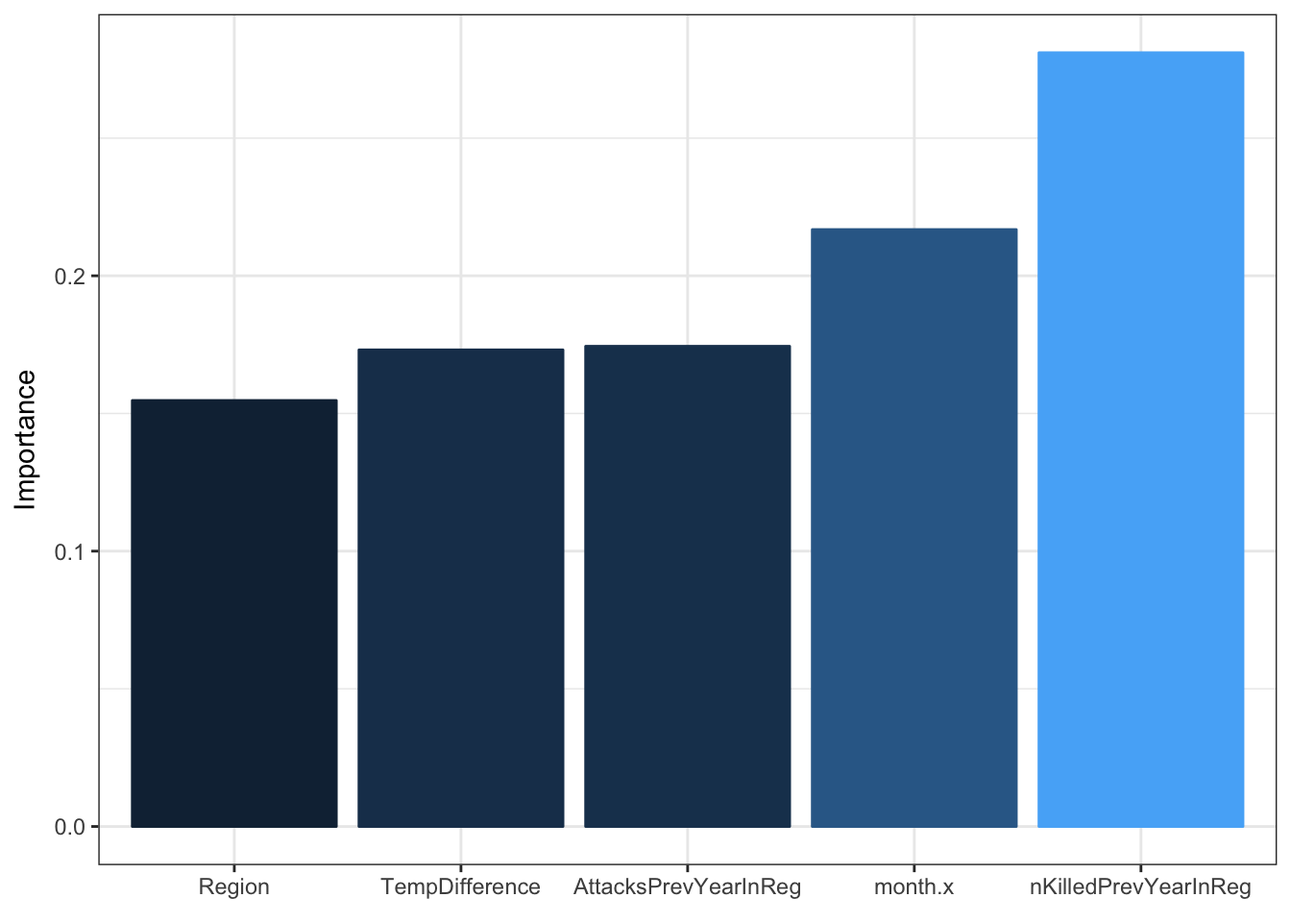
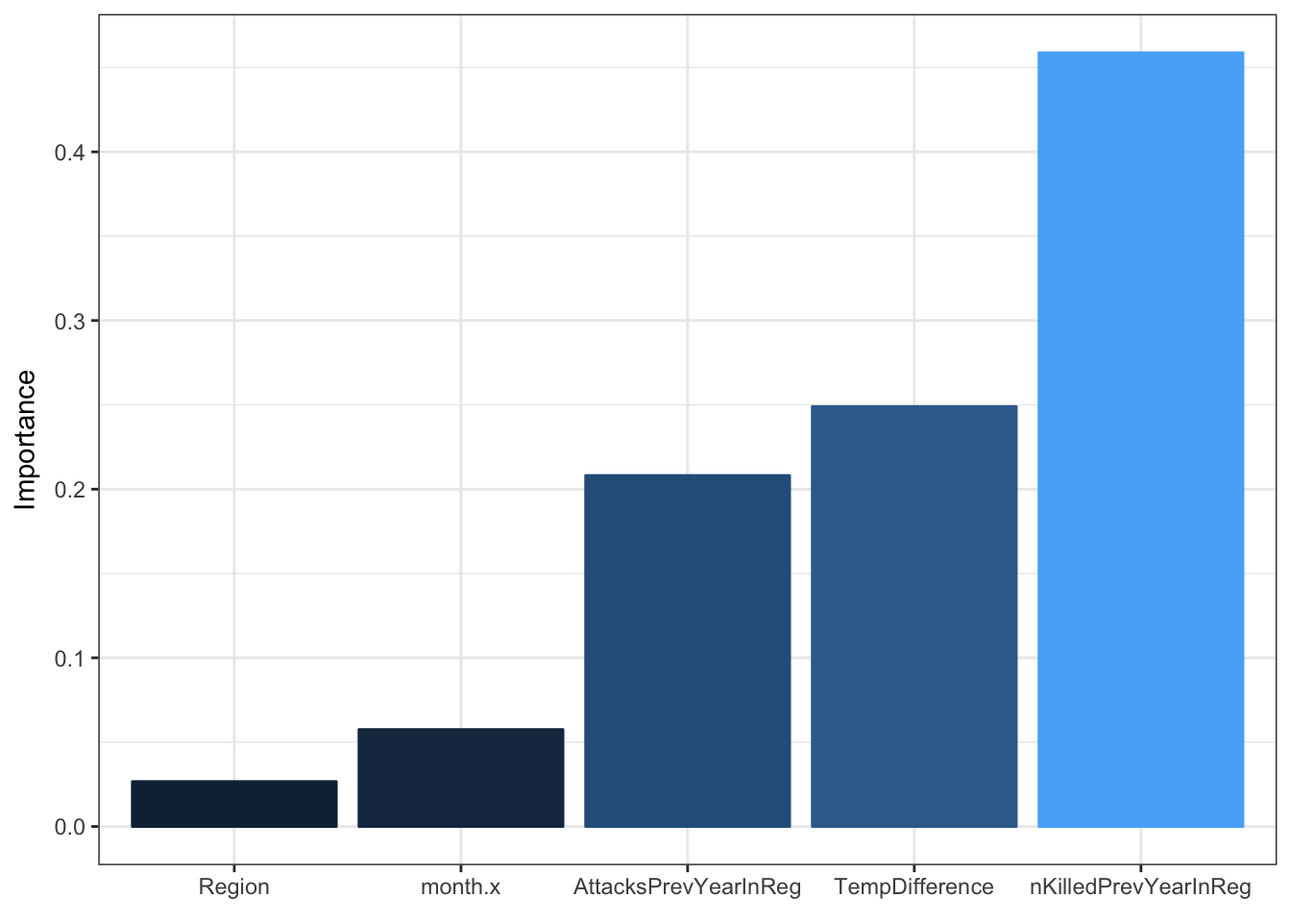
updateing neural net

diff --git a/MasterData.html b/MasterData.html
@@ -254,18 +254,18 @@ usaTerrorismData &lt;- terrorismData %&gt;%
   mutate(year = year(as.POSIXlt(dateLub, 
                                 format=&quot;%d/%m/%Y&quot;))) %&gt;%    ## Create a new year column
   mutate(month_year = paste(month, year))                   ## Create new month, year column (M YYYY)</code></pre>
-<p>Here we will examine terrorist attacks by State since 1970: <div id="6c327b35c4" style="width:672px;height:480px;" class="plotly html-widget"></div>
-<script type="application/json" data-for="6c327b35c4">{"x":{"visdat":{"6c32214c88f":["function () ","plotlyVisDat"]},"cur_data":"6c32214c88f","attrs":{"6c32214c88f":{"locationmode":"USA-states","alpha":1,"sizes":[10,100],"z":{},"text":{},"locations":{},"color":{},"colors":"Reds"}},"layout":{"margin":{"b":40,"l":60,"t":25,"r":10},"mapType":"geo","scene":{"zaxis":{"title":"totalKilled"}},"geo":{"domain":{"x":[0,1],"y":[0,1]},"scope":"usa","projection":{"type":"albers usa"},"showlakes":true,"lakecolor":"rgba(255,255,255,1)"},"hovermode":"closest","showlegend":false,"legend":{"y":0.5,"yanchor":"top"},"title":"Deaths From Terrorist Attacks Since 1970"},"source":"A","config":{"modeBarButtonsToAdd":[{"name":"Collaborate","icon":{"width":1000,"ascent":500,"descent":-50,"path":"M487 375c7-10 9-23 5-36l-79-259c-3-12-11-23-22-31-11-8-22-12-35-12l-263 0c-15 0-29 5-43 15-13 10-23 23-28 37-5 13-5 25-1 37 0 0 0 3 1 7 1 5 1 8 1 11 0 2 0 4-1 6 0 3-1 5-1 6 1 2 2 4 3 6 1 2 2 4 4 6 2 3 4 5 5 7 5 7 9 16 13 26 4 10 7 19 9 26 0 2 0 5 0 9-1 4-1 6 0 8 0 2 2 5 4 8 3 3 5 5 5 7 4 6 8 15 12 26 4 11 7 19 7 26 1 1 0 4 0 9-1 4-1 7 0 8 1 2 3 5 6 8 4 4 6 6 6 7 4 5 8 13 13 24 4 11 7 20 7 28 1 1 0 4 0 7-1 3-1 6-1 7 0 2 1 4 3 6 1 1 3 4 5 6 2 3 3 5 5 6 1 2 3 5 4 9 2 3 3 7 5 10 1 3 2 6 4 10 2 4 4 7 6 9 2 3 4 5 7 7 3 2 7 3 11 3 3 0 8 0 13-1l0-1c7 2 12 2 14 2l218 0c14 0 25-5 32-16 8-10 10-23 6-37l-79-259c-7-22-13-37-20-43-7-7-19-10-37-10l-248 0c-5 0-9-2-11-5-2-3-2-7 0-12 4-13 18-20 41-20l264 0c5 0 10 2 16 5 5 3 8 6 10 11l85 282c2 5 2 10 2 17 7-3 13-7 17-13z m-304 0c-1-3-1-5 0-7 1-1 3-2 6-2l174 0c2 0 4 1 7 2 2 2 4 4 5 7l6 18c0 3 0 5-1 7-1 1-3 2-6 2l-173 0c-3 0-5-1-8-2-2-2-4-4-4-7z m-24-73c-1-3-1-5 0-7 2-2 3-2 6-2l174 0c2 0 5 0 7 2 3 2 4 4 5 7l6 18c1 2 0 5-1 6-1 2-3 3-5 3l-174 0c-3 0-5-1-7-3-3-1-4-4-5-6z"},"click":"function(gd) { \n        // is this being viewed in RStudio?\n        if (location.search == '?viewer_pane=1') {\n          alert('To learn about plotly for collaboration, visit:\\n https://cpsievert.github.io/plotly_book/plot-ly-for-collaboration.html');\n        } else {\n          window.open('https://cpsievert.github.io/plotly_book/plot-ly-for-collaboration.html', '_blank');\n        }\n      }"}],"cloud":false},"data":[{"colorbar":{"title":"Deaths","ticklen":2,"len":0.5,"y":1,"lenmode":"fraction","yanchor":"top"},"colorscale":[["0","rgba(255,245,240,1)"],["0.000354233085370174","rgba(255,245,240,1)"],["0.000708466170740347","rgba(255,245,240,1)"],["0.00141693234148069","rgba(255,245,240,1)"],["0.00177116542685087","rgba(255,245,240,1)"],["0.00212539851222104","rgba(255,245,239,1)"],["0.00247963159759122","rgba(255,245,239,1)"],["0.00283386468296139","rgba(255,245,239,1)"],["0.00318809776833156","rgba(255,244,239,1)"],["0.00389656393907191","rgba(255,244,239,1)"],["0.00425079702444208","rgba(255,244,239,1)"],["0.00637619553666312","rgba(255,244,238,1)"],["0.0152320226709175","rgba(255,242,236,1)"],["0.0226709174636911","rgba(255,241,235,1)"],["0.0602196245129295","rgba(255,235,225,1)"],["1","rgba(103,0,13,1)"]],"showscale":true,"locationmode":"USA-states","z":[5,4,2,79,21,2,0,17,64,7,0,6,4,0,4,0,18,0,8,12,5,2,1,2,0,1,6,0,11,0,2823,9,2,8,170,0,51,0,9,2,12,43,3,0,196,6,0,8,0],"text":["Alabama <br> Number Killed 5","Arizona <br> Number Killed 4","Arkansas <br> Number Killed 2","California <br> Number Killed 79","Colorado <br> Number Killed 21","Connecticut <br> Number Killed 2","Delaware <br> Number Killed 0","District of Columbia <br> Number Killed 17","Florida <br> Number Killed 64","Georgia <br> Number Killed 7","Idaho <br> Number Killed 0","Illinois <br> Number Killed 6","Indiana <br> Number Killed 4","Iowa <br> Number Killed 0","Kansas <br> Number Killed 4","Kentucky <br> Number Killed 0","Louisiana <br> Number Killed 18","Maine <br> Number Killed 0","Maryland <br> Number Killed 8","Massachusetts <br> Number Killed 12","Michigan <br> Number Killed 5","Minnesota <br> Number Killed 2","Mississippi <br> Number Killed 1","Missouri <br> Number Killed 2","Montana <br> Number Killed 0","Nebraska <br> Number Killed 1","Nevada <br> Number Killed 6","New Hampshire <br> Number Killed 0","New Jersey <br> Number Killed 11","New Mexico <br> Number Killed 0","New York <br> Number Killed 2823","North Carolina <br> Number Killed 9","North Dakota <br> Number Killed 2","Ohio <br> Number Killed 8","Oklahoma <br> Number Killed 170","Oregon <br> Number Killed 0","Pennsylvania <br> Number Killed 51","Rhode Island <br> Number Killed 0","South Carolina <br> Number Killed 9","South Dakota <br> Number Killed 2","Tennessee <br> Number Killed 12","Texas <br> Number Killed 43","Utah <br> Number Killed 3","Vermont <br> Number Killed 0","Virginia <br> Number Killed 196","Washington <br> Number Killed 6","West Virginia <br> Number Killed 0","Wisconsin <br> Number Killed 8","Wyoming <br> Number Killed 0"],"locations":["AL","AZ","AR","CA","CO","CT","DE",null,"FL","GA","ID","IL","IN","IA","KS","KY","LA","ME","MD","MA","MI","MN","MS","MO","MT","NE","NV","NH","NJ","NM","NY","NC","ND","OH","OK","OR","PA","RI","SC","SD","TN","TX","UT","VT","VA","WA","WV","WI","WY"],"type":"choropleth","geo":"geo","frame":null}],"highlight":{"on":"plotly_click","persistent":false,"dynamic":false,"selectize":false,"opacityDim":0.2,"selected":{"opacity":1}},"base_url":"https://plot.ly"},"evals":["config.modeBarButtonsToAdd.0.click"],"jsHooks":{"render":[{"code":"function(el, x) { var ctConfig = crosstalk.var('plotlyCrosstalkOpts').set({\"on\":\"plotly_click\",\"persistent\":false,\"dynamic\":false,\"selectize\":false,\"opacityDim\":0.2,\"selected\":{\"opacity\":1}}); }","data":null},{"code":"function(el, x) { var ctConfig = crosstalk.var('plotlyCrosstalkOpts').set({\"on\":\"plotly_click\",\"persistent\":false,\"dynamic\":false,\"selectize\":false,\"opacityDim\":0.2,\"selected\":{\"opacity\":1}}); }","data":null}]}}</script></p>
-<p>We notice that New York skews the data so we will examine the data without New York: <div id="6c3f2dfee7" style="width:672px;height:480px;" class="plotly html-widget"></div>
-<script type="application/json" data-for="6c3f2dfee7">{"x":{"visdat":{"6c331d6d4d1":["function () ","plotlyVisDat"]},"cur_data":"6c331d6d4d1","attrs":{"6c331d6d4d1":{"locationmode":"USA-states","alpha":1,"sizes":[10,100],"z":{},"text":{},"locations":{},"color":{},"colors":"Reds"}},"layout":{"margin":{"b":40,"l":60,"t":25,"r":10},"mapType":"geo","scene":{"zaxis":{"title":"totalKilled"}},"geo":{"domain":{"x":[0,1],"y":[0,1]},"scope":"usa","projection":{"type":"albers usa"},"showlakes":true,"lakecolor":"rgba(255,255,255,1)"},"hovermode":"closest","showlegend":false,"legend":{"y":0.5,"yanchor":"top"},"title":"Deaths From Terrorist Attacks Since 1970 Excluding New York"},"source":"A","config":{"modeBarButtonsToAdd":[{"name":"Collaborate","icon":{"width":1000,"ascent":500,"descent":-50,"path":"M487 375c7-10 9-23 5-36l-79-259c-3-12-11-23-22-31-11-8-22-12-35-12l-263 0c-15 0-29 5-43 15-13 10-23 23-28 37-5 13-5 25-1 37 0 0 0 3 1 7 1 5 1 8 1 11 0 2 0 4-1 6 0 3-1 5-1 6 1 2 2 4 3 6 1 2 2 4 4 6 2 3 4 5 5 7 5 7 9 16 13 26 4 10 7 19 9 26 0 2 0 5 0 9-1 4-1 6 0 8 0 2 2 5 4 8 3 3 5 5 5 7 4 6 8 15 12 26 4 11 7 19 7 26 1 1 0 4 0 9-1 4-1 7 0 8 1 2 3 5 6 8 4 4 6 6 6 7 4 5 8 13 13 24 4 11 7 20 7 28 1 1 0 4 0 7-1 3-1 6-1 7 0 2 1 4 3 6 1 1 3 4 5 6 2 3 3 5 5 6 1 2 3 5 4 9 2 3 3 7 5 10 1 3 2 6 4 10 2 4 4 7 6 9 2 3 4 5 7 7 3 2 7 3 11 3 3 0 8 0 13-1l0-1c7 2 12 2 14 2l218 0c14 0 25-5 32-16 8-10 10-23 6-37l-79-259c-7-22-13-37-20-43-7-7-19-10-37-10l-248 0c-5 0-9-2-11-5-2-3-2-7 0-12 4-13 18-20 41-20l264 0c5 0 10 2 16 5 5 3 8 6 10 11l85 282c2 5 2 10 2 17 7-3 13-7 17-13z m-304 0c-1-3-1-5 0-7 1-1 3-2 6-2l174 0c2 0 4 1 7 2 2 2 4 4 5 7l6 18c0 3 0 5-1 7-1 1-3 2-6 2l-173 0c-3 0-5-1-8-2-2-2-4-4-4-7z m-24-73c-1-3-1-5 0-7 2-2 3-2 6-2l174 0c2 0 5 0 7 2 3 2 4 4 5 7l6 18c1 2 0 5-1 6-1 2-3 3-5 3l-174 0c-3 0-5-1-7-3-3-1-4-4-5-6z"},"click":"function(gd) { \n        // is this being viewed in RStudio?\n        if (location.search == '?viewer_pane=1') {\n          alert('To learn about plotly for collaboration, visit:\\n https://cpsievert.github.io/plotly_book/plot-ly-for-collaboration.html');\n        } else {\n          window.open('https://cpsievert.github.io/plotly_book/plot-ly-for-collaboration.html', '_blank');\n        }\n      }"}],"cloud":false},"data":[{"colorbar":{"title":"Deaths","ticklen":2,"len":0.5,"y":1,"lenmode":"fraction","yanchor":"top"},"colorscale":[["0","rgba(255,245,240,1)"],["0.00510204081632653","rgba(255,244,239,1)"],["0.0102040816326531","rgba(255,243,238,1)"],["0.0180697278911565","rgba(255,242,236,1)"],["0.0204081632653061","rgba(255,242,235,1)"],["0.0255102040816327","rgba(255,241,234,1)"],["0.0306122448979592","rgba(255,240,233,1)"],["0.0325255102040816","rgba(255,240,232,1)"],["0.0408163265306122","rgba(255,238,230,1)"],["0.0423044217687075","rgba(255,238,230,1)"],["0.048469387755102","rgba(255,237,228,1)"],["0.0612244897959184","rgba(255,235,225,1)"],["0.0875850340136054","rgba(254,230,219,1)"],["0.121173469387755","rgba(254,225,211,1)"],["0.265731292517007","rgba(252,182,155,1)"],["0.422406462585033","rgba(252,131,99,1)"],["1","rgba(103,0,13,1)"]],"showscale":true,"locationmode":"USA-states","z":[5,4,2,79,21,2,0,17,64,7,0,6,4,0,4,0,18,0,8,12,5,2,1,2,0,1,6,0,11,0,9,2,8,170,0,51,0,9,2,12,43,3,0,196,6,0,8,0],"text":["Alabama <br> Number Killed 5","Arizona <br> Number Killed 4","Arkansas <br> Number Killed 2","California <br> Number Killed 79","Colorado <br> Number Killed 21","Connecticut <br> Number Killed 2","Delaware <br> Number Killed 0","District of Columbia <br> Number Killed 17","Florida <br> Number Killed 64","Georgia <br> Number Killed 7","Idaho <br> Number Killed 0","Illinois <br> Number Killed 6","Indiana <br> Number Killed 4","Iowa <br> Number Killed 0","Kansas <br> Number Killed 4","Kentucky <br> Number Killed 0","Louisiana <br> Number Killed 18","Maine <br> Number Killed 0","Maryland <br> Number Killed 8","Massachusetts <br> Number Killed 12","Michigan <br> Number Killed 5","Minnesota <br> Number Killed 2","Mississippi <br> Number Killed 1","Missouri <br> Number Killed 2","Montana <br> Number Killed 0","Nebraska <br> Number Killed 1","Nevada <br> Number Killed 6","New Hampshire <br> Number Killed 0","New Jersey <br> Number Killed 11","New Mexico <br> Number Killed 0","North Carolina <br> Number Killed 9","North Dakota <br> Number Killed 2","Ohio <br> Number Killed 8","Oklahoma <br> Number Killed 170","Oregon <br> Number Killed 0","Pennsylvania <br> Number Killed 51","Rhode Island <br> Number Killed 0","South Carolina <br> Number Killed 9","South Dakota <br> Number Killed 2","Tennessee <br> Number Killed 12","Texas <br> Number Killed 43","Utah <br> Number Killed 3","Vermont <br> Number Killed 0","Virginia <br> Number Killed 196","Washington <br> Number Killed 6","West Virginia <br> Number Killed 0","Wisconsin <br> Number Killed 8","Wyoming <br> Number Killed 0"],"locations":["AL","AZ","AR","CA","CO","CT","DE",null,"FL","GA","ID","IL","IN","IA","KS","KY","LA","ME","MD","MA","MI","MN","MS","MO","MT","NE","NV","NH","NJ","NM","NC","ND","OH","OK","OR","PA","RI","SC","SD","TN","TX","UT","VT","VA","WA","WV","WI","WY"],"type":"choropleth","geo":"geo","frame":null}],"highlight":{"on":"plotly_click","persistent":false,"dynamic":false,"selectize":false,"opacityDim":0.2,"selected":{"opacity":1}},"base_url":"https://plot.ly"},"evals":["config.modeBarButtonsToAdd.0.click"],"jsHooks":{"render":[{"code":"function(el, x) { var ctConfig = crosstalk.var('plotlyCrosstalkOpts').set({\"on\":\"plotly_click\",\"persistent\":false,\"dynamic\":false,\"selectize\":false,\"opacityDim\":0.2,\"selected\":{\"opacity\":1}}); }","data":null},{"code":"function(el, x) { var ctConfig = crosstalk.var('plotlyCrosstalkOpts').set({\"on\":\"plotly_click\",\"persistent\":false,\"dynamic\":false,\"selectize\":false,\"opacityDim\":0.2,\"selected\":{\"opacity\":1}}); }","data":null}]}}</script></p>
-<p>And now we will examine attacks as time progresses from 1970 to present day: <html>
+<p>Here we will examine terrorist attacks by State since 1970: <div id="eae1ac74aa6" style="width:672px;height:480px;" class="plotly html-widget"></div>
+<script type="application/json" data-for="eae1ac74aa6">{"x":{"visdat":{"eae6a290a9":["function () ","plotlyVisDat"]},"cur_data":"eae6a290a9","attrs":{"eae6a290a9":{"locationmode":"USA-states","alpha":1,"sizes":[10,100],"z":{},"text":{},"locations":{},"color":{},"colors":"Reds"}},"layout":{"margin":{"b":40,"l":60,"t":25,"r":10},"mapType":"geo","scene":{"zaxis":{"title":"totalKilled"}},"geo":{"domain":{"x":[0,1],"y":[0,1]},"scope":"usa","projection":{"type":"albers usa"},"showlakes":true,"lakecolor":"rgba(255,255,255,1)"},"hovermode":"closest","showlegend":false,"legend":{"y":0.5,"yanchor":"top"},"title":"Deaths From Terrorist Attacks Since 1970"},"source":"A","config":{"modeBarButtonsToAdd":[{"name":"Collaborate","icon":{"width":1000,"ascent":500,"descent":-50,"path":"M487 375c7-10 9-23 5-36l-79-259c-3-12-11-23-22-31-11-8-22-12-35-12l-263 0c-15 0-29 5-43 15-13 10-23 23-28 37-5 13-5 25-1 37 0 0 0 3 1 7 1 5 1 8 1 11 0 2 0 4-1 6 0 3-1 5-1 6 1 2 2 4 3 6 1 2 2 4 4 6 2 3 4 5 5 7 5 7 9 16 13 26 4 10 7 19 9 26 0 2 0 5 0 9-1 4-1 6 0 8 0 2 2 5 4 8 3 3 5 5 5 7 4 6 8 15 12 26 4 11 7 19 7 26 1 1 0 4 0 9-1 4-1 7 0 8 1 2 3 5 6 8 4 4 6 6 6 7 4 5 8 13 13 24 4 11 7 20 7 28 1 1 0 4 0 7-1 3-1 6-1 7 0 2 1 4 3 6 1 1 3 4 5 6 2 3 3 5 5 6 1 2 3 5 4 9 2 3 3 7 5 10 1 3 2 6 4 10 2 4 4 7 6 9 2 3 4 5 7 7 3 2 7 3 11 3 3 0 8 0 13-1l0-1c7 2 12 2 14 2l218 0c14 0 25-5 32-16 8-10 10-23 6-37l-79-259c-7-22-13-37-20-43-7-7-19-10-37-10l-248 0c-5 0-9-2-11-5-2-3-2-7 0-12 4-13 18-20 41-20l264 0c5 0 10 2 16 5 5 3 8 6 10 11l85 282c2 5 2 10 2 17 7-3 13-7 17-13z m-304 0c-1-3-1-5 0-7 1-1 3-2 6-2l174 0c2 0 4 1 7 2 2 2 4 4 5 7l6 18c0 3 0 5-1 7-1 1-3 2-6 2l-173 0c-3 0-5-1-8-2-2-2-4-4-4-7z m-24-73c-1-3-1-5 0-7 2-2 3-2 6-2l174 0c2 0 5 0 7 2 3 2 4 4 5 7l6 18c1 2 0 5-1 6-1 2-3 3-5 3l-174 0c-3 0-5-1-7-3-3-1-4-4-5-6z"},"click":"function(gd) { \n        // is this being viewed in RStudio?\n        if (location.search == '?viewer_pane=1') {\n          alert('To learn about plotly for collaboration, visit:\\n https://cpsievert.github.io/plotly_book/plot-ly-for-collaboration.html');\n        } else {\n          window.open('https://cpsievert.github.io/plotly_book/plot-ly-for-collaboration.html', '_blank');\n        }\n      }"}],"cloud":false},"data":[{"colorbar":{"title":"Deaths","ticklen":2,"len":0.5,"y":1,"lenmode":"fraction","yanchor":"top"},"colorscale":[["0","rgba(255,245,240,1)"],["0.000354233085370174","rgba(255,245,240,1)"],["0.000708466170740347","rgba(255,245,240,1)"],["0.00141693234148069","rgba(255,245,240,1)"],["0.00177116542685087","rgba(255,245,240,1)"],["0.00212539851222104","rgba(255,245,239,1)"],["0.00247963159759122","rgba(255,245,239,1)"],["0.00283386468296139","rgba(255,245,239,1)"],["0.00318809776833156","rgba(255,244,239,1)"],["0.00389656393907191","rgba(255,244,239,1)"],["0.00425079702444208","rgba(255,244,239,1)"],["0.00637619553666312","rgba(255,244,238,1)"],["0.0152320226709175","rgba(255,242,236,1)"],["0.0226709174636911","rgba(255,241,235,1)"],["0.0602196245129295","rgba(255,235,225,1)"],["1","rgba(103,0,13,1)"]],"showscale":true,"locationmode":"USA-states","z":[5,4,2,79,21,2,0,17,64,7,0,6,4,0,4,0,18,0,8,12,5,2,1,2,0,1,6,0,11,0,2823,9,2,8,170,0,51,0,9,2,12,43,3,0,196,6,0,8,0],"text":["Alabama <br> Number Killed 5","Arizona <br> Number Killed 4","Arkansas <br> Number Killed 2","California <br> Number Killed 79","Colorado <br> Number Killed 21","Connecticut <br> Number Killed 2","Delaware <br> Number Killed 0","District of Columbia <br> Number Killed 17","Florida <br> Number Killed 64","Georgia <br> Number Killed 7","Idaho <br> Number Killed 0","Illinois <br> Number Killed 6","Indiana <br> Number Killed 4","Iowa <br> Number Killed 0","Kansas <br> Number Killed 4","Kentucky <br> Number Killed 0","Louisiana <br> Number Killed 18","Maine <br> Number Killed 0","Maryland <br> Number Killed 8","Massachusetts <br> Number Killed 12","Michigan <br> Number Killed 5","Minnesota <br> Number Killed 2","Mississippi <br> Number Killed 1","Missouri <br> Number Killed 2","Montana <br> Number Killed 0","Nebraska <br> Number Killed 1","Nevada <br> Number Killed 6","New Hampshire <br> Number Killed 0","New Jersey <br> Number Killed 11","New Mexico <br> Number Killed 0","New York <br> Number Killed 2823","North Carolina <br> Number Killed 9","North Dakota <br> Number Killed 2","Ohio <br> Number Killed 8","Oklahoma <br> Number Killed 170","Oregon <br> Number Killed 0","Pennsylvania <br> Number Killed 51","Rhode Island <br> Number Killed 0","South Carolina <br> Number Killed 9","South Dakota <br> Number Killed 2","Tennessee <br> Number Killed 12","Texas <br> Number Killed 43","Utah <br> Number Killed 3","Vermont <br> Number Killed 0","Virginia <br> Number Killed 196","Washington <br> Number Killed 6","West Virginia <br> Number Killed 0","Wisconsin <br> Number Killed 8","Wyoming <br> Number Killed 0"],"locations":["AL","AZ","AR","CA","CO","CT","DE",null,"FL","GA","ID","IL","IN","IA","KS","KY","LA","ME","MD","MA","MI","MN","MS","MO","MT","NE","NV","NH","NJ","NM","NY","NC","ND","OH","OK","OR","PA","RI","SC","SD","TN","TX","UT","VT","VA","WA","WV","WI","WY"],"type":"choropleth","geo":"geo","frame":null}],"highlight":{"on":"plotly_click","persistent":false,"dynamic":false,"selectize":false,"opacityDim":0.2,"selected":{"opacity":1}},"base_url":"https://plot.ly"},"evals":["config.modeBarButtonsToAdd.0.click"],"jsHooks":{"render":[{"code":"function(el, x) { var ctConfig = crosstalk.var('plotlyCrosstalkOpts').set({\"on\":\"plotly_click\",\"persistent\":false,\"dynamic\":false,\"selectize\":false,\"opacityDim\":0.2,\"selected\":{\"opacity\":1}}); }","data":null},{"code":"function(el, x) { var ctConfig = crosstalk.var('plotlyCrosstalkOpts').set({\"on\":\"plotly_click\",\"persistent\":false,\"dynamic\":false,\"selectize\":false,\"opacityDim\":0.2,\"selected\":{\"opacity\":1}}); }","data":null}]}}</script></p>
+<p>We notice that New York skews the data so we will examine the data without New York: <div id="eaef04b521" style="width:672px;height:480px;" class="plotly html-widget"></div>
+<script type="application/json" data-for="eaef04b521">{"x":{"visdat":{"eae7f9ad8a2":["function () ","plotlyVisDat"]},"cur_data":"eae7f9ad8a2","attrs":{"eae7f9ad8a2":{"locationmode":"USA-states","alpha":1,"sizes":[10,100],"z":{},"text":{},"locations":{},"color":{},"colors":"Reds"}},"layout":{"margin":{"b":40,"l":60,"t":25,"r":10},"mapType":"geo","scene":{"zaxis":{"title":"totalKilled"}},"geo":{"domain":{"x":[0,1],"y":[0,1]},"scope":"usa","projection":{"type":"albers usa"},"showlakes":true,"lakecolor":"rgba(255,255,255,1)"},"hovermode":"closest","showlegend":false,"legend":{"y":0.5,"yanchor":"top"},"title":"Deaths From Terrorist Attacks Since 1970 Excluding New York"},"source":"A","config":{"modeBarButtonsToAdd":[{"name":"Collaborate","icon":{"width":1000,"ascent":500,"descent":-50,"path":"M487 375c7-10 9-23 5-36l-79-259c-3-12-11-23-22-31-11-8-22-12-35-12l-263 0c-15 0-29 5-43 15-13 10-23 23-28 37-5 13-5 25-1 37 0 0 0 3 1 7 1 5 1 8 1 11 0 2 0 4-1 6 0 3-1 5-1 6 1 2 2 4 3 6 1 2 2 4 4 6 2 3 4 5 5 7 5 7 9 16 13 26 4 10 7 19 9 26 0 2 0 5 0 9-1 4-1 6 0 8 0 2 2 5 4 8 3 3 5 5 5 7 4 6 8 15 12 26 4 11 7 19 7 26 1 1 0 4 0 9-1 4-1 7 0 8 1 2 3 5 6 8 4 4 6 6 6 7 4 5 8 13 13 24 4 11 7 20 7 28 1 1 0 4 0 7-1 3-1 6-1 7 0 2 1 4 3 6 1 1 3 4 5 6 2 3 3 5 5 6 1 2 3 5 4 9 2 3 3 7 5 10 1 3 2 6 4 10 2 4 4 7 6 9 2 3 4 5 7 7 3 2 7 3 11 3 3 0 8 0 13-1l0-1c7 2 12 2 14 2l218 0c14 0 25-5 32-16 8-10 10-23 6-37l-79-259c-7-22-13-37-20-43-7-7-19-10-37-10l-248 0c-5 0-9-2-11-5-2-3-2-7 0-12 4-13 18-20 41-20l264 0c5 0 10 2 16 5 5 3 8 6 10 11l85 282c2 5 2 10 2 17 7-3 13-7 17-13z m-304 0c-1-3-1-5 0-7 1-1 3-2 6-2l174 0c2 0 4 1 7 2 2 2 4 4 5 7l6 18c0 3 0 5-1 7-1 1-3 2-6 2l-173 0c-3 0-5-1-8-2-2-2-4-4-4-7z m-24-73c-1-3-1-5 0-7 2-2 3-2 6-2l174 0c2 0 5 0 7 2 3 2 4 4 5 7l6 18c1 2 0 5-1 6-1 2-3 3-5 3l-174 0c-3 0-5-1-7-3-3-1-4-4-5-6z"},"click":"function(gd) { \n        // is this being viewed in RStudio?\n        if (location.search == '?viewer_pane=1') {\n          alert('To learn about plotly for collaboration, visit:\\n https://cpsievert.github.io/plotly_book/plot-ly-for-collaboration.html');\n        } else {\n          window.open('https://cpsievert.github.io/plotly_book/plot-ly-for-collaboration.html', '_blank');\n        }\n      }"}],"cloud":false},"data":[{"colorbar":{"title":"Deaths","ticklen":2,"len":0.5,"y":1,"lenmode":"fraction","yanchor":"top"},"colorscale":[["0","rgba(255,245,240,1)"],["0.00510204081632653","rgba(255,244,239,1)"],["0.0102040816326531","rgba(255,243,238,1)"],["0.0180697278911565","rgba(255,242,236,1)"],["0.0204081632653061","rgba(255,242,235,1)"],["0.0255102040816327","rgba(255,241,234,1)"],["0.0306122448979592","rgba(255,240,233,1)"],["0.0325255102040816","rgba(255,240,232,1)"],["0.0408163265306122","rgba(255,238,230,1)"],["0.0423044217687075","rgba(255,238,230,1)"],["0.048469387755102","rgba(255,237,228,1)"],["0.0612244897959184","rgba(255,235,225,1)"],["0.0875850340136054","rgba(254,230,219,1)"],["0.121173469387755","rgba(254,225,211,1)"],["0.265731292517007","rgba(252,182,155,1)"],["0.422406462585033","rgba(252,131,99,1)"],["1","rgba(103,0,13,1)"]],"showscale":true,"locationmode":"USA-states","z":[5,4,2,79,21,2,0,17,64,7,0,6,4,0,4,0,18,0,8,12,5,2,1,2,0,1,6,0,11,0,9,2,8,170,0,51,0,9,2,12,43,3,0,196,6,0,8,0],"text":["Alabama <br> Number Killed 5","Arizona <br> Number Killed 4","Arkansas <br> Number Killed 2","California <br> Number Killed 79","Colorado <br> Number Killed 21","Connecticut <br> Number Killed 2","Delaware <br> Number Killed 0","District of Columbia <br> Number Killed 17","Florida <br> Number Killed 64","Georgia <br> Number Killed 7","Idaho <br> Number Killed 0","Illinois <br> Number Killed 6","Indiana <br> Number Killed 4","Iowa <br> Number Killed 0","Kansas <br> Number Killed 4","Kentucky <br> Number Killed 0","Louisiana <br> Number Killed 18","Maine <br> Number Killed 0","Maryland <br> Number Killed 8","Massachusetts <br> Number Killed 12","Michigan <br> Number Killed 5","Minnesota <br> Number Killed 2","Mississippi <br> Number Killed 1","Missouri <br> Number Killed 2","Montana <br> Number Killed 0","Nebraska <br> Number Killed 1","Nevada <br> Number Killed 6","New Hampshire <br> Number Killed 0","New Jersey <br> Number Killed 11","New Mexico <br> Number Killed 0","North Carolina <br> Number Killed 9","North Dakota <br> Number Killed 2","Ohio <br> Number Killed 8","Oklahoma <br> Number Killed 170","Oregon <br> Number Killed 0","Pennsylvania <br> Number Killed 51","Rhode Island <br> Number Killed 0","South Carolina <br> Number Killed 9","South Dakota <br> Number Killed 2","Tennessee <br> Number Killed 12","Texas <br> Number Killed 43","Utah <br> Number Killed 3","Vermont <br> Number Killed 0","Virginia <br> Number Killed 196","Washington <br> Number Killed 6","West Virginia <br> Number Killed 0","Wisconsin <br> Number Killed 8","Wyoming <br> Number Killed 0"],"locations":["AL","AZ","AR","CA","CO","CT","DE",null,"FL","GA","ID","IL","IN","IA","KS","KY","LA","ME","MD","MA","MI","MN","MS","MO","MT","NE","NV","NH","NJ","NM","NC","ND","OH","OK","OR","PA","RI","SC","SD","TN","TX","UT","VT","VA","WA","WV","WI","WY"],"type":"choropleth","geo":"geo","frame":null}],"highlight":{"on":"plotly_click","persistent":false,"dynamic":false,"selectize":false,"opacityDim":0.2,"selected":{"opacity":1}},"base_url":"https://plot.ly"},"evals":["config.modeBarButtonsToAdd.0.click"],"jsHooks":{"render":[{"code":"function(el, x) { var ctConfig = crosstalk.var('plotlyCrosstalkOpts').set({\"on\":\"plotly_click\",\"persistent\":false,\"dynamic\":false,\"selectize\":false,\"opacityDim\":0.2,\"selected\":{\"opacity\":1}}); }","data":null},{"code":"function(el, x) { var ctConfig = crosstalk.var('plotlyCrosstalkOpts').set({\"on\":\"plotly_click\",\"persistent\":false,\"dynamic\":false,\"selectize\":false,\"opacityDim\":0.2,\"selected\":{\"opacity\":1}}); }","data":null}]}}</script></p>
+<p>And now we will examine attacks as time progresses from 1970 to present day: (You can also view this Shiny application hosted at: <a href="https://fordc5.shinyapps.io/interactiveterrorism/" class="uri">https://fordc5.shinyapps.io/interactiveterrorism/</a>) <html>
 	<body>
 		<div>
 			<iframe id="example1" src="https://fordc5.shinyapps.io/interactiveterrorism/" style="border: none; width: 100%; height: 850px" frameborder="0"></iframe>
 		</div>
 	</body>
 </html></p>
-<p>We will now use the latitude and longitude of each observation in order to group each of our observations into regions. We will utilize k-means clustering in order to do so. After cross-validation, we found that k = 20 produces the best clustering for our data. We are interested in creating regions instead of states because states have proven to be very difficult to work with.</p>
+<p>We will now use the latitude and longitude of each observation in order to group each of our observations into regions. We will utilize k-means clustering in order to do so. After cross-validation, we found that k = 20 produces the best clustering for our data. We are interested in creating regions instead of states because there is no comprhensive library that converts latitude and logitudes or cities to states. Furthermore, this clustering is easily extended to regions across the globe making adding other data from around the world easier.</p>
 <pre class="r"><code>cluster &lt;- function(latVector, longVector) {
 
   set.seed(4747)                                        ## Set seed for reproducibility
@@ -301,16 +301,15 @@ usaTerrorismData &lt;- terrorismData %&gt;%
   return(resultData$cluster)                            ## Return the comma seperated cluster data as vector
 }</code></pre>
 <p>We want to create a model to forecast future terrorist attacks with a neural network. First, we must clean our master data - this includes filtering out insignificant or unnecessary variables (both categorical and some numerical). We must also check to make sure our data frame contains no missing (na) values.</p>
-<p>Because our neural net takes so long to train initial CV was limited to experimenting with just a handful of different hidden layers. The code for producing this model is below:</p>
+<p>Because our neural net takes so long to train, initial CV iss limited to experimenting with just a handful of different hidden layers (c(3), c(3,5), and c(5)). The code for this model is below:</p>
 <pre class="r"><code># Neural net model
-
 set.seed(4747)                                                          ## Set seed for neural net
 
 max = apply(nnData, 2, max)                                             ## Get max of data
 min = apply(nnData, 2, min)                                             ## Get min of data   
 scaledData = as.data.frame(scale(nnData, center=min, scale=max-min))    ## scale data from min to max
 
-sampleSize = 0.2 * nrow(scaledData)                                     ## Sample from 2/3 of the observations
+sampleSize = 0.67 * nrow(scaledData)                                    ## Sample from 2/3 of the observations
 index = sample(seq_len(nrow(scaledData)), size=sampleSize)              ## Compute index sample
 
 trainNNData &lt;- scaledData[index,]                                       ## Get training set
@@ -320,21 +319,21 @@ neuralNet &lt;-neuralnet(isAttack~month.x+Region+TempDifference+
                       AttacksPrevYearInReg+nKilledPrevYearInReg, 
                       trainNNData, hidden=3, linear.output=TRUE)        ## Fit neural network on data</code></pre>
 <p>We can assess this model by looking at a sample of predictions as well as variable importance.</p>
-<p><img src="MasterData_files/figure-html/unnamed-chunk-12-1.png" width="672" /></p>
+<p>Visualization of neural network with a hidden layer of 3: <img src="MasterData_files/figure-html/unnamed-chunk-12-1.png" width="672" /></p>
 <pre><code>##   actual     prediction
-## 1      0 0.004178709223
-## 2      0 0.003969308456
-## 3      0 0.007903124096
-## 5      0 0.006799993672
-## 6      0 0.006728228337
-## 7      0 0.006309301658</code></pre>
+## 1      0 0.005254503598
+## 3      0 0.010555180528
+## 5      0 0.004713353460
+## 6      0 0.004963625267
+## 7      0 0.003498189848
+## 9      0 0.004982823047</code></pre>
 <pre><code>## # A tibble: 2 x 2
 ##   actual `mean(prediction)`
 ##    &lt;dbl&gt;              &lt;dbl&gt;
-## 1      0     0.007913349105
-## 2      1     0.014233869282</code></pre>
+## 1      0     0.008275441667
+## 2      1     0.017669455448</code></pre>
 <p><img src="MasterData_files/figure-html/unnamed-chunk-13-1.png" width="672" /></p>
-<p>That did alright, but now let’s try to predict whether a terrorist attack is going to happen in a given year, rather than a given day in a region. This is going to require a bit of data re-wrangling to get the appropriate explanatory variables.</p>
+<p>That did alright. The predictions appear to be larger for test observations with an attack occuring. However the prediction values are very small - and this makes sense because a terrorist attack in a given month is unlikely - and temperature difference has little effect. But now let’s try to predict whether a terrorist attack is going to happen in a given year, rather than a given month in a region. This is going to require a bit of data re-wrangling to get the appropriate explanatory variables. We then use the same neural net code as above to initialze our model.</p>
 <p>Results for neural net by year:</p>
 <p><img src="MasterData_files/figure-html/unnamed-chunk-18-1.png" width="672" /></p>
 <pre><code>##    actual   prediction
@@ -350,6 +349,14 @@ neuralNet &lt;-neuralnet(isAttack~month.x+Region+TempDifference+
 ## 1      0       0.3649511678
 ## 2      1       0.4981493106</code></pre>
 <p><img src="MasterData_files/figure-html/unnamed-chunk-19-1.png" width="672" /></p>
+<p>#### So was John Kerry right?</p>
+<p>It’s hard to tell. But we do know a couple things.</p>
+<ol style="list-style-type: decimal">
+<li>Predicting when a terrorist attack is going to occur is difficult. However, it appears feasible to observe when regions are more suseptible to terrorist activity than others.</li>
+<li>Temperature difference has little to no effect on our model. There are a few possible explanations for this. The first is that there is no actual impact. The second is that we need more explanatory variables drawing on drought, and natural disaster data sets. The third is that we are looking at the wrong place in the world. Perhaps if we looked at countries in the middle east, with higher terrorist attack rates and more susceptible to extreme weather (droughts in Syria’s case) then significance might exist. And fourth, the visible effects of climate change may not be strong/frequent enough to see an impact on terrorism. We tend to lean towards the fourth explanation.</li>
+<li>We would love to run our model on a data set with additional explantory variables in wind, rainfall, and a natural disaster (earthquake) index as well as terrorism and climate observations from around the world.</li>
+</ol>
+<p>Please visit our GitHub repository for source code and much more detail (and code!) for this analysis: <a href="https://github.com/ST47S-CompStats-Fall2017/ma154-project13-teamclimate" class="uri">https://github.com/ST47S-CompStats-Fall2017/ma154-project13-teamclimate</a></p>
 </div>
 
 
